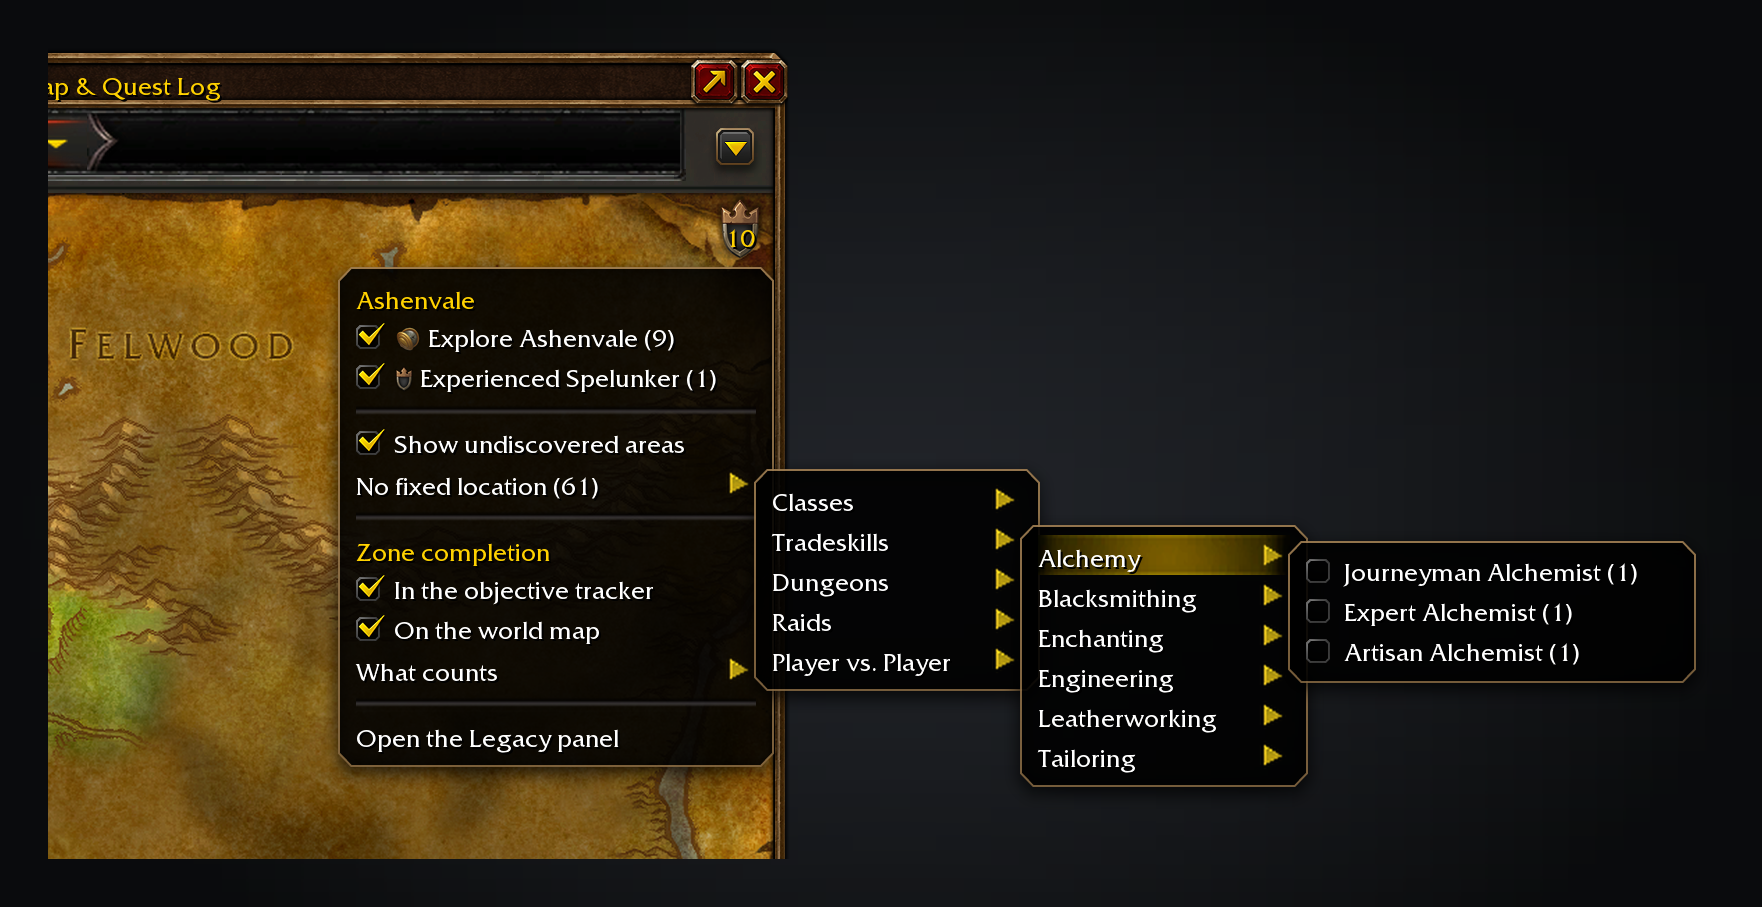
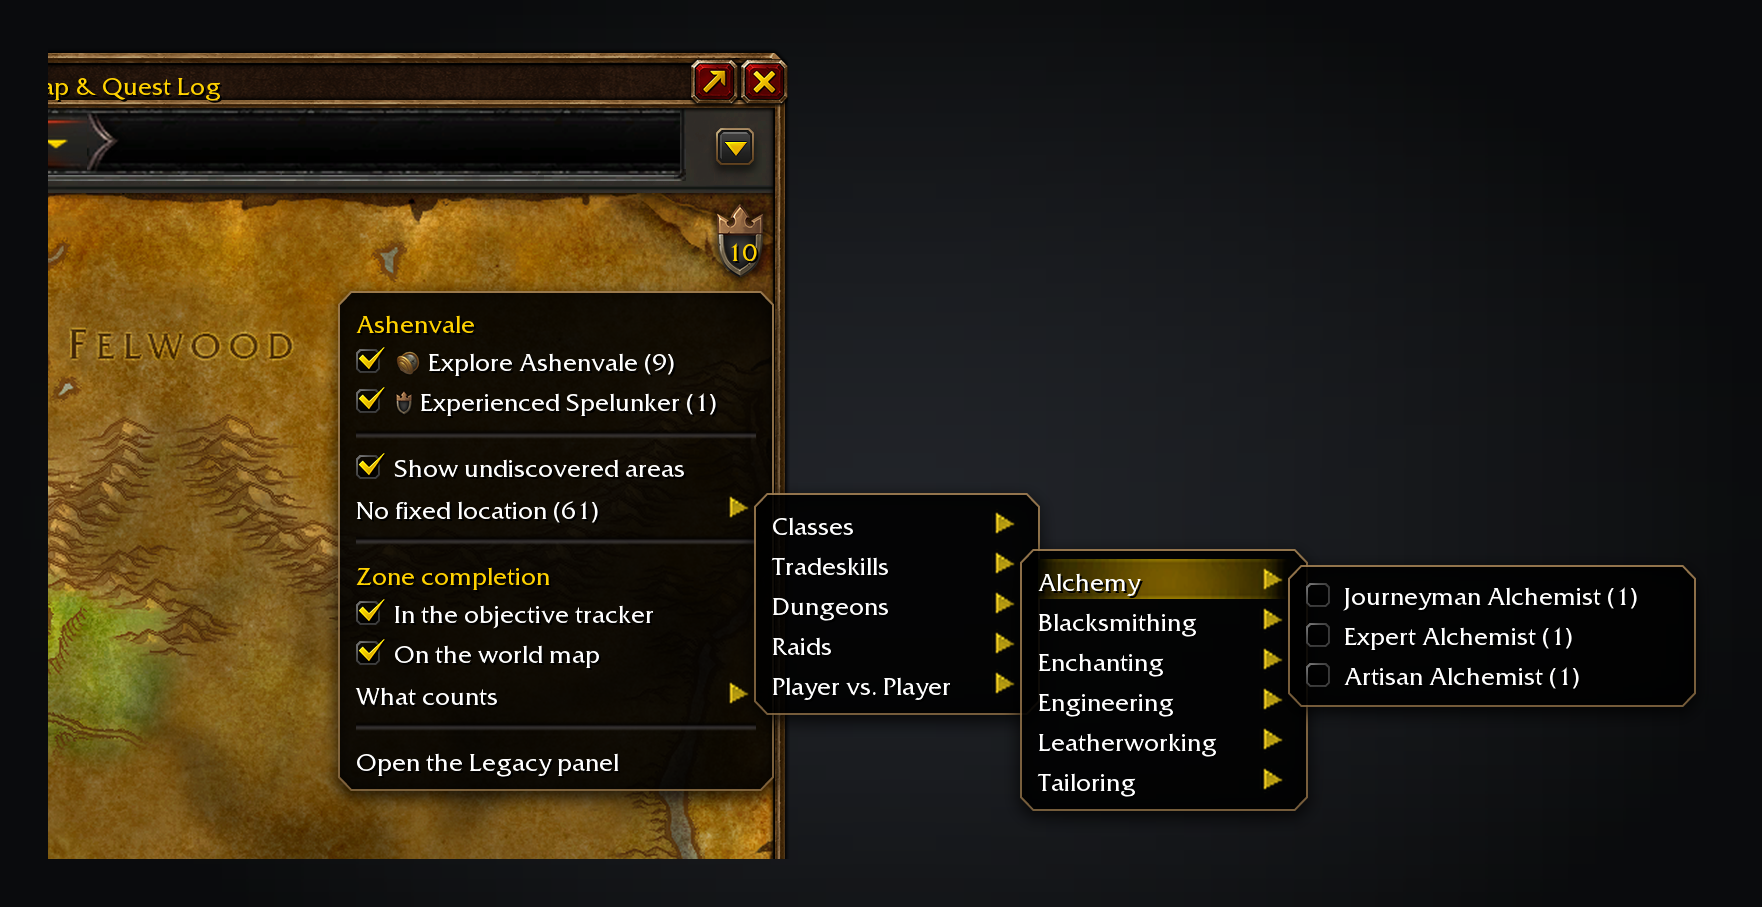
fix(map): bigger map-button shield, count centred in its body (#23)
At 24x35 two digits filled the shield's body edge to edge, and the count
read a little left and high: Friz digits carry their spacing on the right,
so a text-centred number sits left of the art. The shield is now 30x44
(the button 32x44 to match, still 32 wide for Blizzard's column), and the
count is nudged 1 right and 4 down so it centres on the dark body.

Claude-Session: https://claude.ai/code/session_016cB4EsmY8J7vcvboaHNcoS

Changed region(s): [[0.1873, 0.2161, 0.9364, 0.8953], [0.9364, 0.7409, 0.9677, 0.7718]]

diff --git a/tools/screenshots.py b/tools/screenshots.py
@@ -523,10 +523,10 @@ def map_button(ui, canvas, rects, count):
     sits in that column on Forever (the tracking options button moves beside the NavBar)."""
     cx, cy, cw, _ = rects["container"]
     x, y = cx + cw - 4 - 32, cy + 2
-    canvas.draw(ui.atlas(POINTS_ICON), x + 4, y - 1.5, 24, 35)
+    canvas.draw(ui.atlas(POINTS_ICON), x + 1, y, 30, 44)
     font = FONTS["GameFontNormalSmall" if count >= 100 else "GameFontNormal"]
-    canvas.text(x - 4, y + 16 + 3 - font.height / 2, str(count) if count else "", font, justify="CENTER", width=40)
-    return x, y, 32, 32
+    canvas.text(x - 4 + 1, y + 22 + 4 - font.height / 2, str(count) if count else "", font, justify="CENTER", width=40)
+    return x, y, 32, 44
 
 
 def menu_at(ui, entries, right=None, top=None, left=None):
